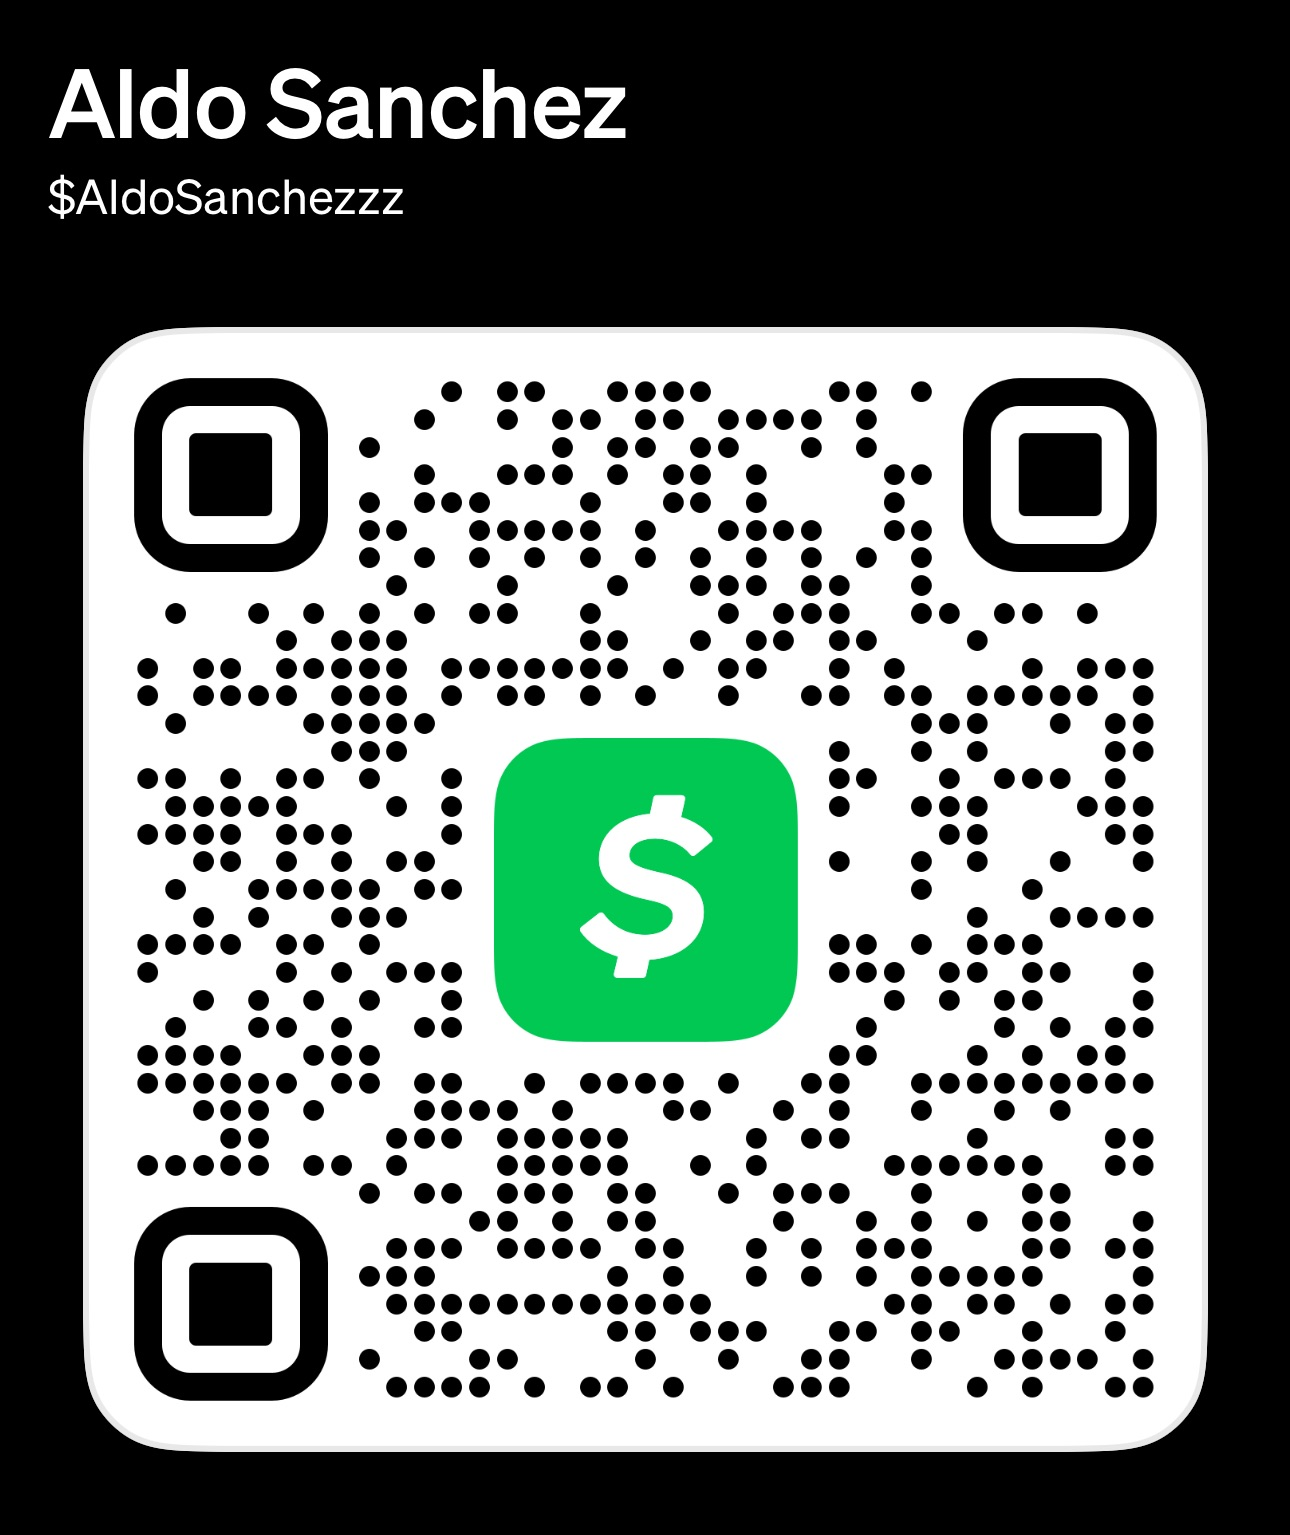
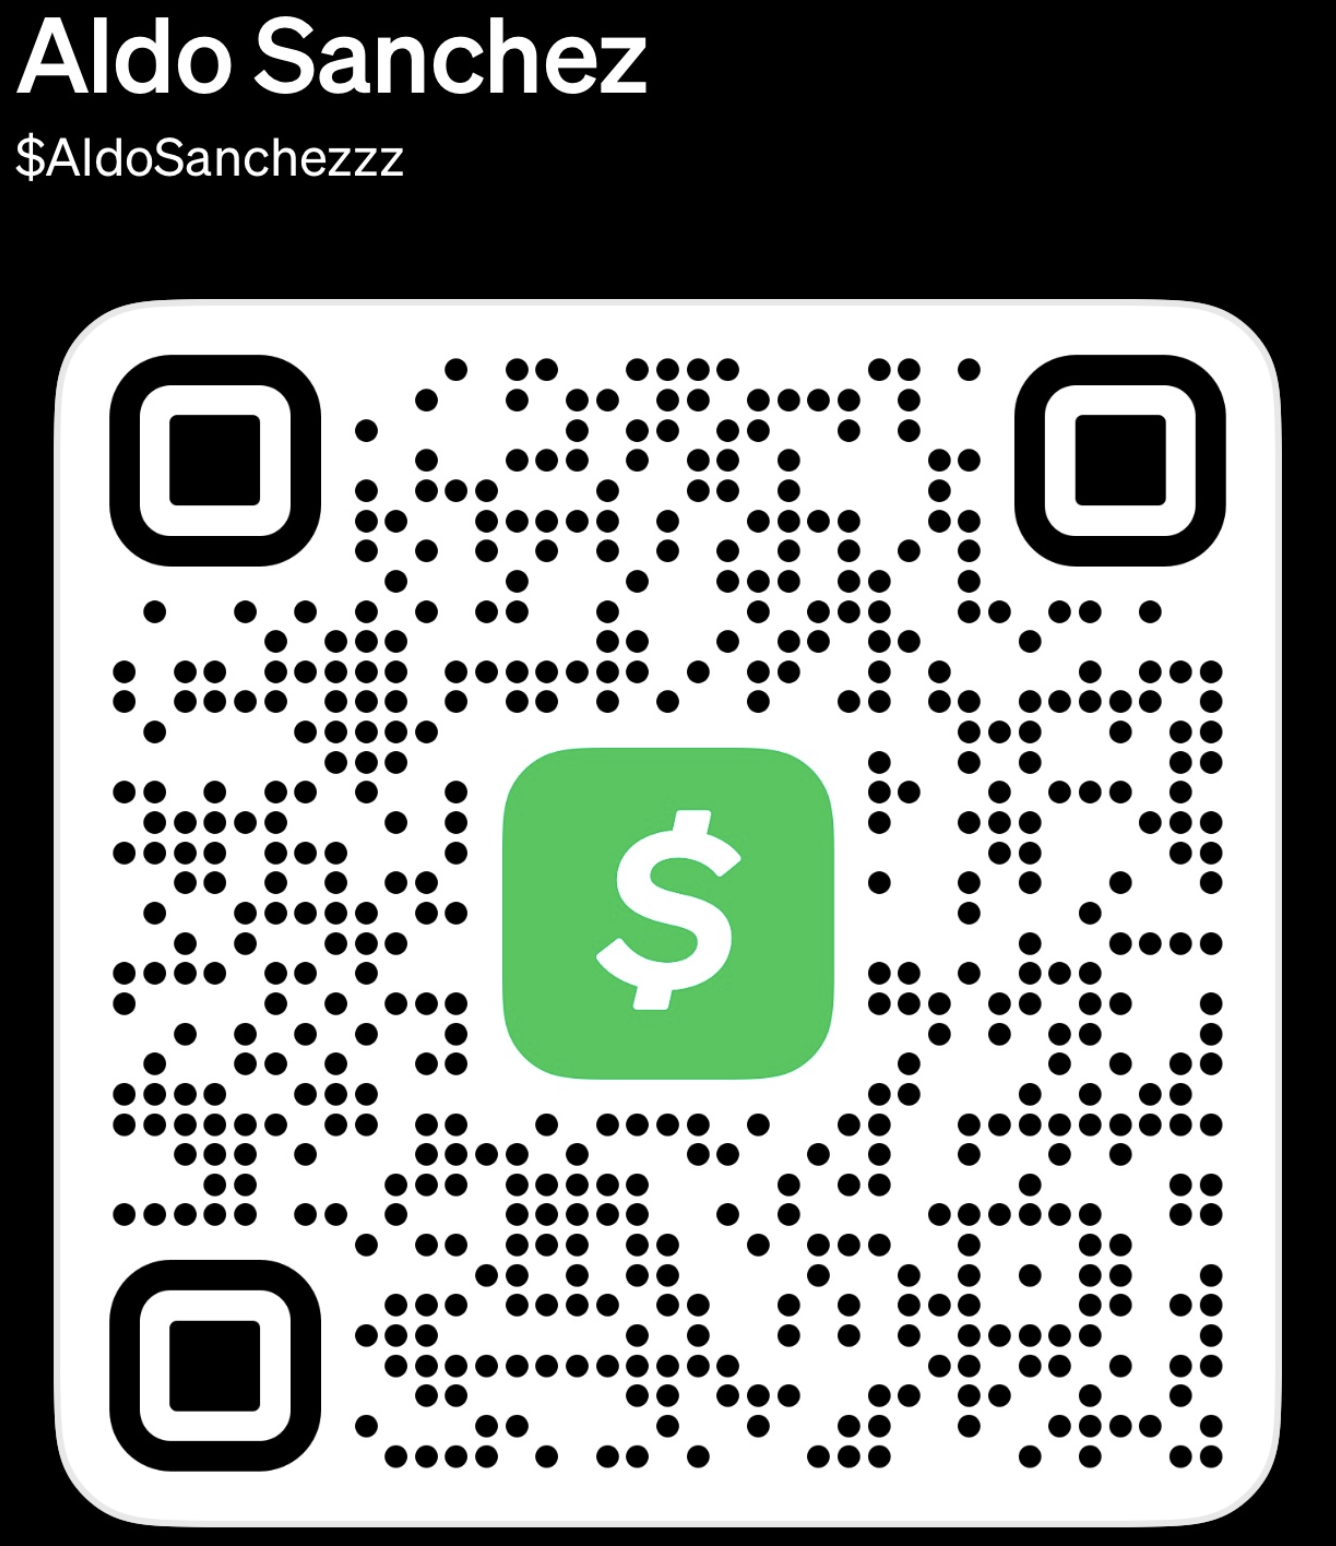
cropped photos, added directions link, simplified RSVP process

diff --git a/registry.html b/registry.html
@@ -1,79 +1,77 @@
 <!DOCTYPE html>
 <html lang="en">
+
 <head>
   <meta charset="UTF-8" />
   <meta name="viewport" content="width=device-width, initial-scale=1" />
   <title>Registry — Isabella & Aldo</title>
   <link rel="stylesheet" href="style.css" />
 </head>
+
 <body>
 
-<!-- Header -->
-<header class="site-header small">
-  <div class="container">
-    <h1 class="couple-names">Registry</h1>
-  </div>
-</header>
-
-<!-- Navigation -->
-<nav class="top-nav container">
-  <a href="index.html">Home</a>
-  <a href="gallery.html">Gallery</a>
-  <a href="registry.html">Registry</a>
-  <a href="rsvp.html" class="cta">RSVP</a>
-</nav>
-
-<!-- Main Content -->
-<main class="container">
-  <section class="card">
-
-    <p style="text-align:center; font-size: 1.05rem; line-height: 1.6;">
-      We are incredibly grateful for your love, support, and generosity. Since we live far away, 
-      we kindly request no boxed gifts. Instead, we are accepting cash gifts that will help us create 
-      unforgettable honeymoon memories and begin saving for our future home together.
-    </p>
-
-    <p style="text-align:center; font-size: 1.05rem; line-height: 1.6;">
-      Contributions can be made through <strong>Cash App</strong>, <strong>Zelle</strong>, or 
-      <strong>PayPal</strong>, or with cash at the event.
-    </p>
-
-  </section>
-
-  <!-- QR Code Grid -->
-  <section class="card">
-    <div class="qr-grid">
-      
-      <div class="qr-box">
-        <img src="assets/qr-cashapp.png" alt="Cash App QR" />
-        <p>Cash App</p>
-      </div>
-
-      <div class="qr-box">
-        <img src="assets/qr-zelle.png" alt="Zelle QR" />
-        <p>Zelle</p>
-      </div>
-
-      <div class="qr-box">
-        <img src="assets/qr-paypal.png" alt="PayPal QR" />
-        <p>PayPal</p>
-      </div>
-
-      <div class="qr-box">
-        <img src="assets/money-box.png" alt="Cash Gift Icon" />
-        <p>Cash at Event</p>
-      </div>
-
+  <!-- Header -->
+  <header class="site-header small">
+    <div class="container">
+      <h1 class="couple-names">Registry</h1>
     </div>
-  </section>
-</main>
+  </header>
 
-<!-- Footer -->
-<footer class="site-footer">
-  <div class="container">
-    <p>&copy; Isabella Payan & Aldo Sanchez — January 16, 2027</p>
-  </div>
-</footer>
+  <!-- Navigation -->
+  <nav class="top-nav container">
+    <a href="index.html">Home</a>
+    <a href="gallery.html">Gallery</a>
+    <a href="registry.html">Registry</a>
+    <a href="rsvp.html" class="cta">RSVP</a>
+  </nav>
+
+  <!-- Main Content -->
+  <main class="container">
+    <section class="card">
+
+      <p style="text-align:center; font-size: 1.05rem; line-height: 1.6;">
+        We are incredibly grateful for your love, support, and generosity. Since we live far away,
+        we kindly request cash gifts that will help us create unforgettable honeymoon memories and begin saving for our
+        future home together.
+      </p>
+
+    </section>
+
+    <!-- QR Code Grid -->
+    <section class="card">
+      <div class="qr-grid">
+
+        <div class="qr-box">
+          <img src="assets/qr-cashapp.png" alt="Cash App QR" />
+          <p>Cash App</p>
+        </div>
+
+        <div class="qr-box">
+          <img src="assets/qr-zelle.png" alt="Zelle QR" />
+          <p>Zelle</p>
+        </div>
+
+        <div class="qr-box">
+          <img src="assets/qr-paypal.png" alt="PayPal QR" />
+          <p>PayPal</p>
+        </div>
+
+        <div class="qr-box">
+          <img src="assets/money-box.png" alt="Cash Gift Icon" />
+          <p>Cash at Event</p>
+        </div>
+
+      </div>
+    </section>
+  </main>
+
+  <!-- Footer -->
+  <footer class="site-footer">
+    <div class="container">
+      <p>&copy; Isabella Payan & Aldo Sanchez — January 16, 2027</p>
+    </div>
+  </footer>
 
 </body>
+
 </html>

diff --git a/index.html b/index.html
@@ -53,15 +53,14 @@
                     }
                 }
 
-                /* ensure the hero section doesn't keep the old background styling */
                 #hero {
                     background: none;
                     color: inherit;
                 }
             </style>
             <p>
-                <a class="btn" href="https://share.google/7vI6WLxEsqq4F4RqX" target="_blank">
-                    View Location on Google Maps
+                <a class="btn" href="https://www.google.com/maps?kgmid=/m/0b1d3_&hl=en-US&shndl=17&shem=damc,shrtsdl&kgs=098061cecd444897&um=1&ie=UTF-8&fb=1&gl=us&sa=X&geocode=KXMsNkjWWeeGMUFrPDVDFBG-&daddr=106+W+Mills+Ave,+El+Paso,+TX+79901" target="_blank">
+                    View on Google Maps
                 </a>
             </p>
 
